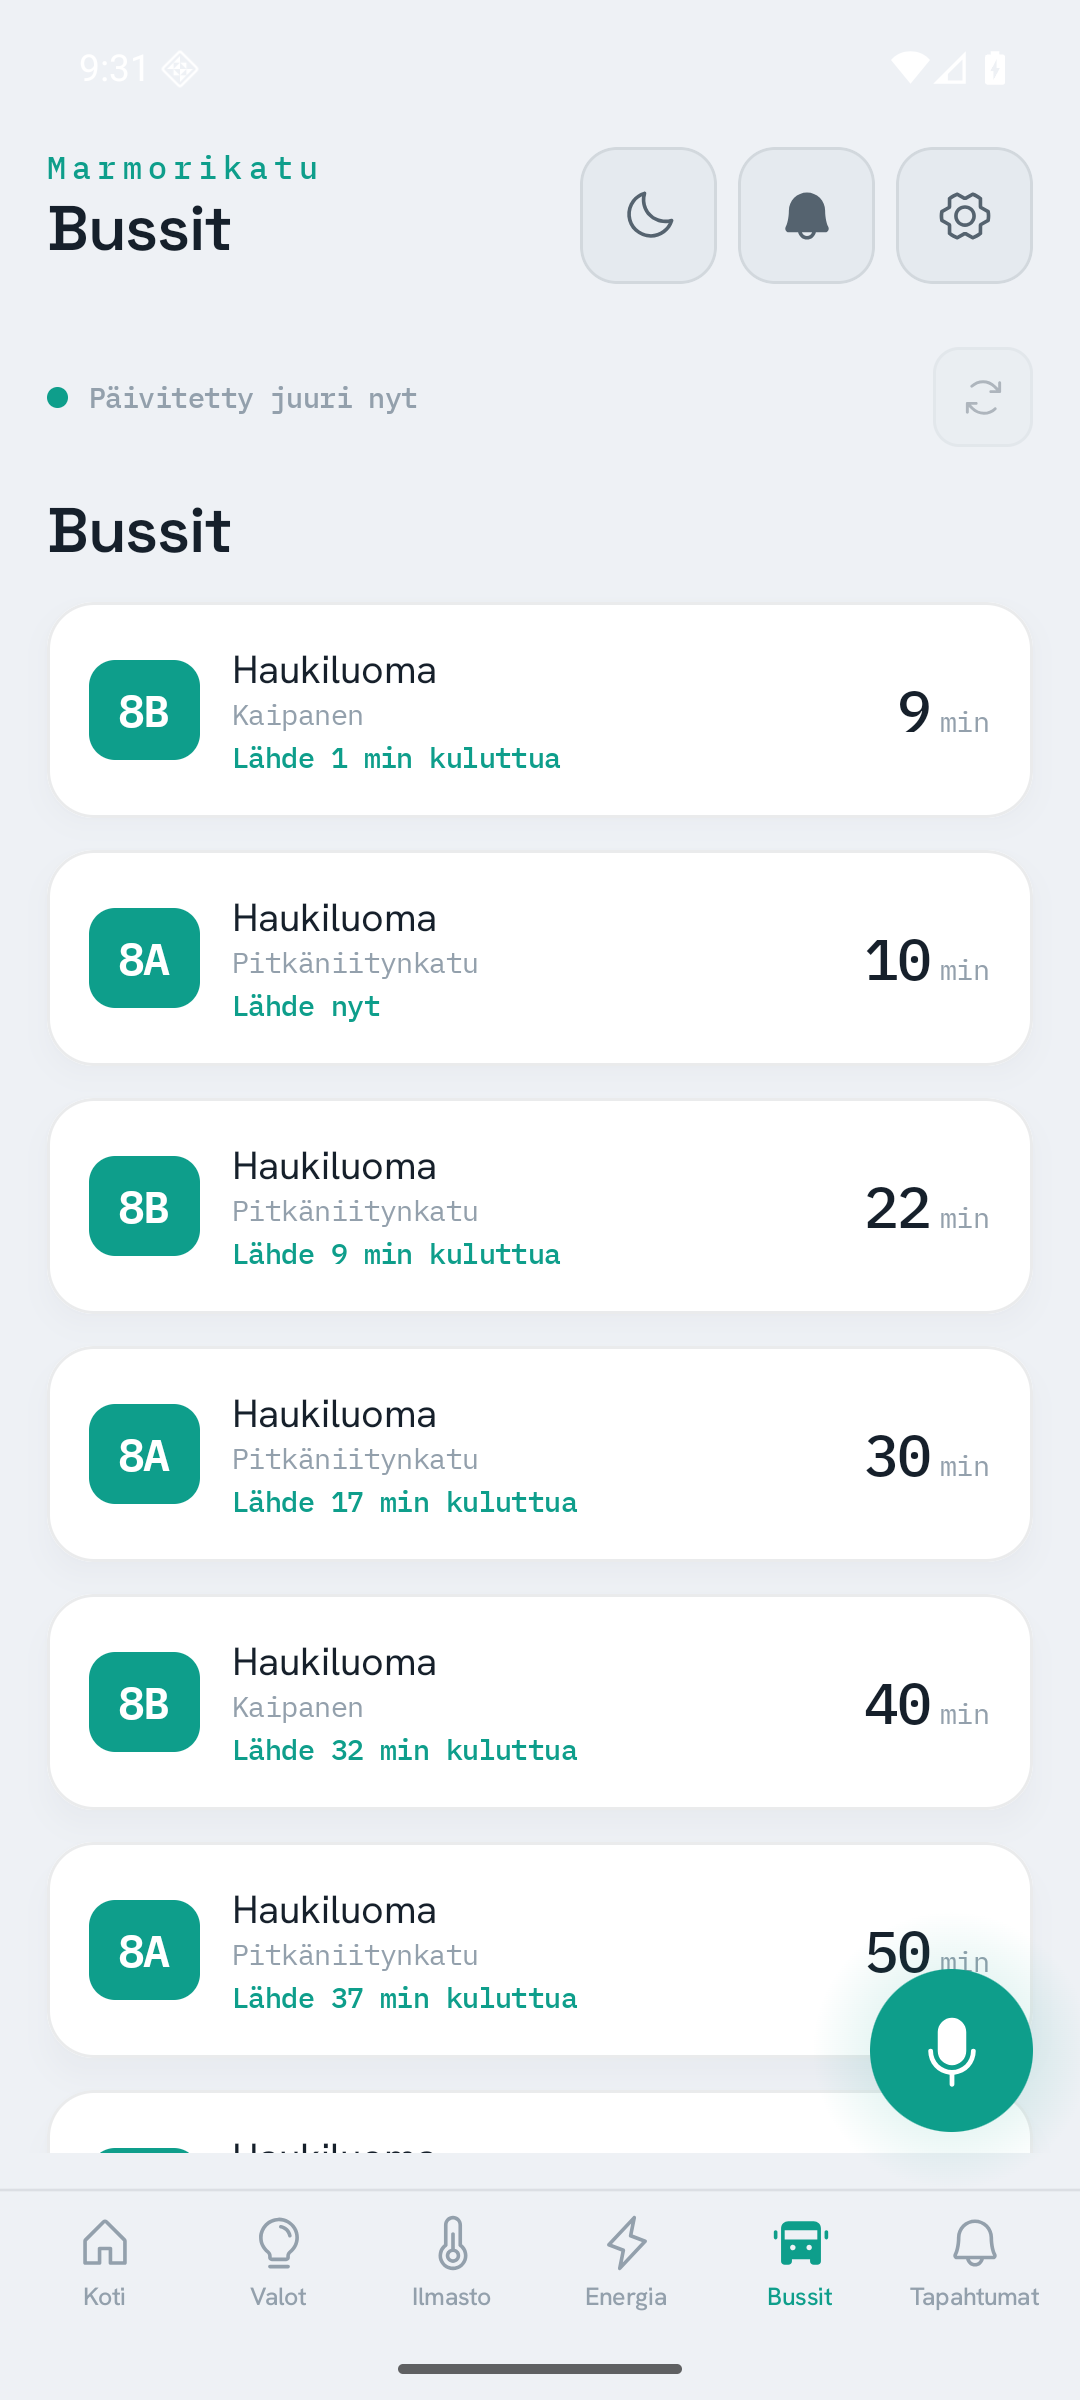
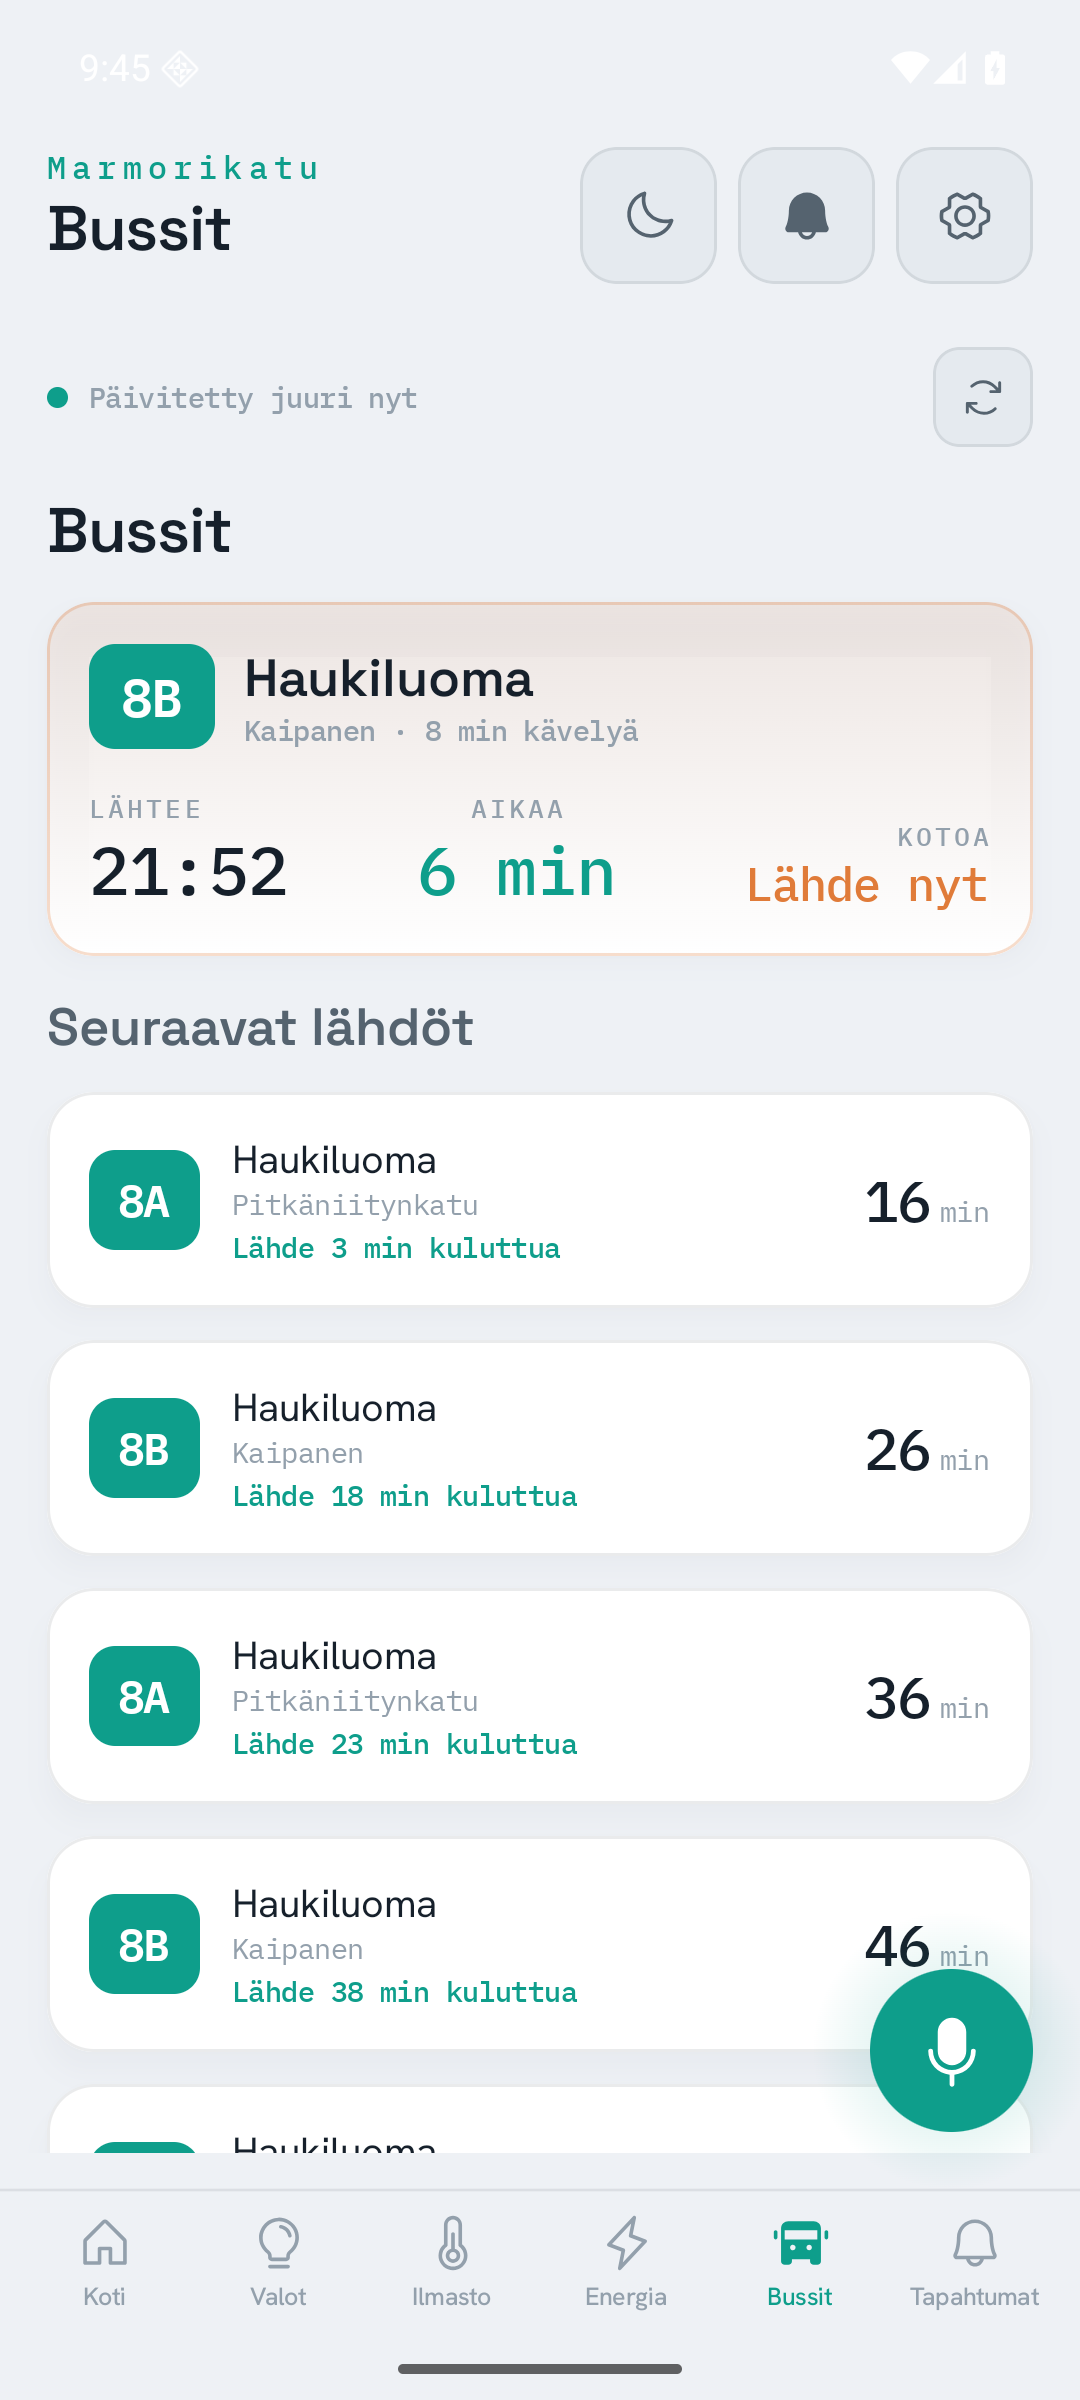
Add Koti lighting quick-presets (Pikatilat)
A four-tile quick-state row on the home dashboard under a 'Valaistus' section —
Kaikki pois / Alakerta / Yläkerta / Kaikki päälle — wired to the lights repo
(setAll / setFloor). Refreshes the Koti and Bussit reference screenshots.

Claude-Session: https://claude.ai/code/session_01YUx3xkCw8ajvZdByZ9WnmA

diff --git a/composeApp/src/commonMain/kotlin/fi/marmorikatu/app/screens/KotiScreen.kt b/composeApp/src/commonMain/kotlin/fi/marmorikatu/app/screens/KotiScreen.kt
@@ -1,6 +1,8 @@
 package fi.marmorikatu.app.screens
 
 import androidx.compose.foundation.background
+import androidx.compose.foundation.border
+import androidx.compose.foundation.clickable
 import androidx.compose.foundation.gestures.detectHorizontalDragGestures
 import androidx.compose.foundation.layout.Arrangement
 import androidx.compose.foundation.layout.Box
@@ -15,6 +17,7 @@ import androidx.compose.foundation.rememberScrollState
 import androidx.compose.foundation.verticalScroll
 import androidx.compose.ui.ExperimentalComposeUiApi
 import androidx.compose.ui.backhandler.BackHandler
+import androidx.compose.ui.draw.clip
 import androidx.compose.ui.input.pointer.pointerInput
 import androidx.compose.material3.Text
 import androidx.compose.runtime.Composable
@@ -159,6 +162,9 @@ fun KotiScreen(viewModel: KotiViewModel = koinViewModel()) {
                 }
             }
 
+            SectionLabel("Valaistus")
+            LightPresetRow(onPreset = viewModel::runLightPreset)
+
             if (state.rooms.isNotEmpty()) {
                 val safeIndex = roomIndex.coerceIn(0, state.rooms.size - 1)
                 SectionLabel("Lämpötilat")
@@ -178,6 +184,45 @@ fun KotiScreen(viewModel: KotiViewModel = koinViewModel()) {
                     Text("Ladataan…", style = MkTheme.type.label, color = colors.inkLo)
                 state.error != null ->
                     Text(state.error!!, style = MkTheme.type.label, color = colors.inkLo)
+            }
+        }
+    }
+}
+
+/** Four one-tap lighting quick-states, per the design's "Pikatilat" grid. */
+@Composable
+private fun LightPresetRow(onPreset: (KotiLightPreset) -> Unit) {
+    val c = MkTheme.colors
+    val shape = androidx.compose.foundation.shape.RoundedCornerShape(fi.marmorikatu.app.theme.MkRadius.md)
+    Row(
+        modifier = Modifier.fillMaxWidth(),
+        horizontalArrangement = Arrangement.spacedBy(8.dp),
+    ) {
+        KotiLightPreset.entries.forEach { p ->
+            Column(
+                modifier = Modifier
+                    .weight(1f)
+                    .clip(shape)
+                    .background(c.surfaceCard)
+                    .border(1.dp, c.borderSubtle, shape)
+                    .clickable { onPreset(p) }
+                    .padding(vertical = 11.dp, horizontal = 4.dp),
+                horizontalAlignment = Alignment.CenterHorizontally,
+                verticalArrangement = Arrangement.spacedBy(5.dp),
+            ) {
+                androidx.compose.material3.Icon(
+                    imageVector = p.icon,
+                    contentDescription = null,
+                    tint = c.accent,
+                    modifier = Modifier.size(18.dp),
+                )
+                Text(
+                    text = p.label,
+                    style = MkTheme.type.label,
+                    color = c.inkMid,
+                    maxLines = 2,
+                    textAlign = androidx.compose.ui.text.style.TextAlign.Center,
+                )
             }
         }
     }

diff --git a/composeApp/src/commonMain/kotlin/fi/marmorikatu/app/screens/KotiViewModel.kt b/composeApp/src/commonMain/kotlin/fi/marmorikatu/app/screens/KotiViewModel.kt
@@ -14,6 +14,7 @@ import fi.marmorikatu.app.icons.MkIcons
 import fi.marmorikatu.core.model.AirQuality
 import fi.marmorikatu.core.model.Announcement
 import fi.marmorikatu.core.model.ElectricityPrices
+import fi.marmorikatu.core.model.Floor
 import fi.marmorikatu.core.model.HeatPumpStatus
 import fi.marmorikatu.core.model.HeatingDemand
 import fi.marmorikatu.core.model.HvacSummary
@@ -23,6 +24,7 @@ import fi.marmorikatu.core.model.SpotPrice
 import fi.marmorikatu.core.repository.AnnouncementsRepository
 import fi.marmorikatu.core.repository.ClimateRepository
 import fi.marmorikatu.core.repository.EnergyRepository
+import fi.marmorikatu.core.repository.LightsRepository
 import fi.marmorikatu.core.repository.SaunaRepository
 import fi.marmorikatu.core.transport.mcp.SaunaStatus
 import kotlinx.coroutines.async
@@ -37,6 +39,14 @@ import kotlinx.coroutines.flow.update
 import kotlinx.coroutines.launch
 import kotlin.time.Clock
 import kotlin.time.ExperimentalTime
+
+/** The home dashboard's one-tap lighting quick-states. */
+enum class KotiLightPreset(val label: String, val icon: ImageVector) {
+    AllOff("Kaikki pois", MkIcons.Moon),
+    Downstairs("Alakerta", MkIcons.HouseFill),
+    Upstairs("Yläkerta", MkIcons.BedFill),
+    AllOn("Kaikki päälle", MkIcons.LightbulbFill),
+}
 
 /** "At the door" banner content, surfaced only for a person announcement. */
 data class DoorInfo(
@@ -90,8 +100,23 @@ class KotiViewModel(
     private val climateRepo: ClimateRepository,
     private val energyRepo: EnergyRepository,
     private val saunaRepo: SaunaRepository,
+    private val lightsRepo: LightsRepository,
     announcementsRepo: AnnouncementsRepository,
 ) : ViewModel() {
+
+    /** Home-dashboard lighting quick-states. Best effort — failures are quiet. */
+    fun runLightPreset(preset: KotiLightPreset) {
+        viewModelScope.launch {
+            runCatching {
+                when (preset) {
+                    KotiLightPreset.AllOff -> lightsRepo.setAll(false)
+                    KotiLightPreset.AllOn -> lightsRepo.setAll(true)
+                    KotiLightPreset.Downstairs -> lightsRepo.setFloor(Floor.ALAKERTA, true)
+                    KotiLightPreset.Upstairs -> lightsRepo.setFloor(Floor.YLAKERTA, true)
+                }
+            }
+        }
+    }
 
     /** On-demand snapshots that back the strip + KPIs. */
     private data class Snapshots(

diff --git a/composeApp/src/commonMain/kotlin/fi/marmorikatu/app/di/ScreenModules.kt b/composeApp/src/commonMain/kotlin/fi/marmorikatu/app/di/ScreenModules.kt
@@ -16,6 +16,7 @@ val kotiModule = module {
             climateRepo = get(),
             energyRepo = get(),
             saunaRepo = get(),
+            lightsRepo = get(),
             announcementsRepo = get(),
         )
     }